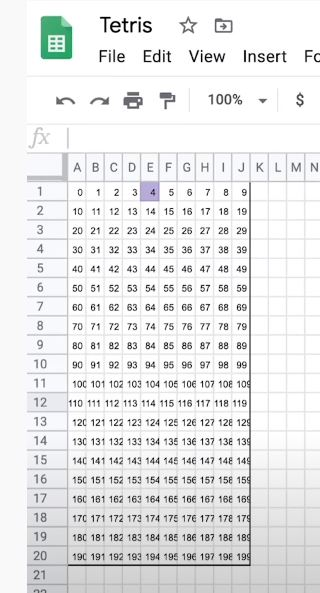
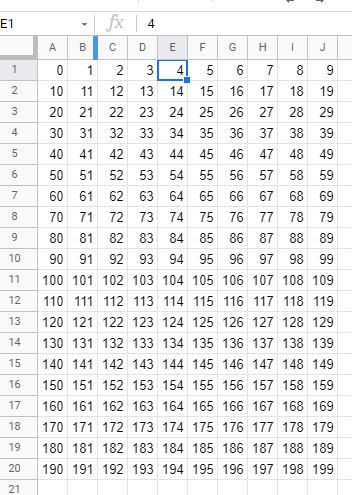
all the updates, who reads this anyway? :D

diff --git a/src/tetris/js/app.js b/src/tetris/js/app.js
@@ -2,8 +2,9 @@ document.addEventListener('DOMContentLoaded', () =>{
     const grid = document.querySelector('.grid');
     const scoreDisplay = document.querySelector('#score');
     const startButton = document.querySelector('#start-button');
-    let squares = Array.from(document.querySelectorAll('.grid div'));
     const width = 10;
+    
+    let squares = Array.from(document.querySelectorAll('.grid div'));
 
     // Tetrominoes
     const lTetromino = [
@@ -13,33 +14,61 @@ document.addEventListener('DOMContentLoaded', () =>{
         [width, width*2,width*2+1, width*2+2]
     ];
 
-    const theTetrominoes = [lTetromino];
+    const zTetromino = [
+        [0, width, width+1, width*2+1],
+        [width+1, width+2, width*2, width*2+1],
+        [0, width, width+1, width*2+1],
+        [width+1, width+2, width*2, width*2+1]
+    ];    
+
+    const theTetrominoes = [lTetromino, zTetromino];
 
     let currentPosition = 4; // starting point on the board
-    let current = theTetrominoes[0][0];
+    let currentRotation = 0;
+    let random = Math.floor(Math.random() * theTetrominoes.length);
+    //console.log('random = ' + random); 
+
+    let current = theTetrominoes[random][currentRotation];
 
     function draw() {
         current.forEach(index => {
             squares[currentPosition + index].classList.add('tetromino');
-        })
+            //console.log('draw index = ' + index);
+        });
+    };
+
+    function undraw() {
+        current.forEach(index => {
+            squares[currentPosition + index].classList.remove('tetromino');
+            //console.log('undraw index = ' + index);            
+        });
+    };
+
+    timerId = setInterval(moveDown, 500);
+
+    function moveDown() {
+        undraw();
+        currentPosition += width;
+        draw();
+        freeze();
     }
 
-    function getRandomInt(max) {
-console.log('max = ' + max);
+    function freeze() {
+        if (current.some(index => squares[currentPosition + index + width].classList.contains('taken'))) {
+            current.forEach(index => squares[currentPosition + index].classList.add('taken'));
+            
+            // let a new tetromino fall
+            random = Math.floor(Math.random() * theTetrominoes.length);
+            console.log('random = ' + random); 
+            console.log('currentRotation = ' + currentRotation); 
 
-let random = Math.random();
-console.log('Math.random() = ' + random);
+            current = theTetrominoes[random][currentRotation];
+            console.log('current = ' + current);
+            console.log('currentPosition = ' + currentPosition);
+            currentPosition = 4;
 
-let randomTimesMax = random * max;
-console.log('randomTimesMax = ' + randomTimesMax);
 
-let mathFloor = Math.floor(randomTimesMax);
-console.log('Math.floor(randomTimesMax) = ' + mathFloor);
-      }
-
-    let random = Math.floor(Math.random()*theTetrominoes.length);
-    // console.log(random); 
-    getRandomInt(3); 
-
-    draw();
+            draw();
+        }
+    }
 })

diff --git a/src/tetris/js/index.html b/src/tetris/js/index.html
@@ -214,6 +214,16 @@
         <div></div>
         <div></div>
         <div></div>
+        <div class="taken"></div>
+        <div class="taken"></div>
+        <div class="taken"></div>
+        <div class="taken"></div>
+        <div class="taken"></div>
+        <div class="taken"></div>
+        <div class="taken"></div>
+        <div class="taken"></div>
+        <div class="taken"></div>
+        <div class="taken"></div>
     </div>
 </body>
 

diff --git a/src/tetris/README.md b/src/tetris/README.md
@@ -2,14 +2,18 @@
 
 I built this by following [Ania Kubów's tutorial](https://www.youtube.com/watch?v=w1JJfK09ujQ), thank you Ania for sharing your passion for code with the world.
 
+Her orginal code is here https://github.com/kubowania/Tetris-Basic, its encouraged not to copy but rather build and follow the tutorial.
+
 ## The grid
 
-Simple google sheets method to visualize the grid. Its 10 by 200 squares.
+Simple google sheets method to visualize the grid. Its 10 by 200 squares and zero based.
 
 ![Grid](grid-in-google-sheets.jpg)
 
 ## Tetrominoes
 
-These are the shapes that fall down and build up the lines, they can be rotated.
+- [View my Google sheets doc here](https://docs.google.com/spreadsheets/d/1AUCZV330Kh-ACKLboJx5S2HNRUaSG_O0gPRsVTWLxHM/edit?usp=sharing)
+
+These are the shapes that fall down and build up the lines, they can be rotated. The way I made sense of this in my head (based on the below) they rotated counter clockwise on B11 below.
 
 ![Tetrominoes](tetrominoes-possible-shapes.jpg)
